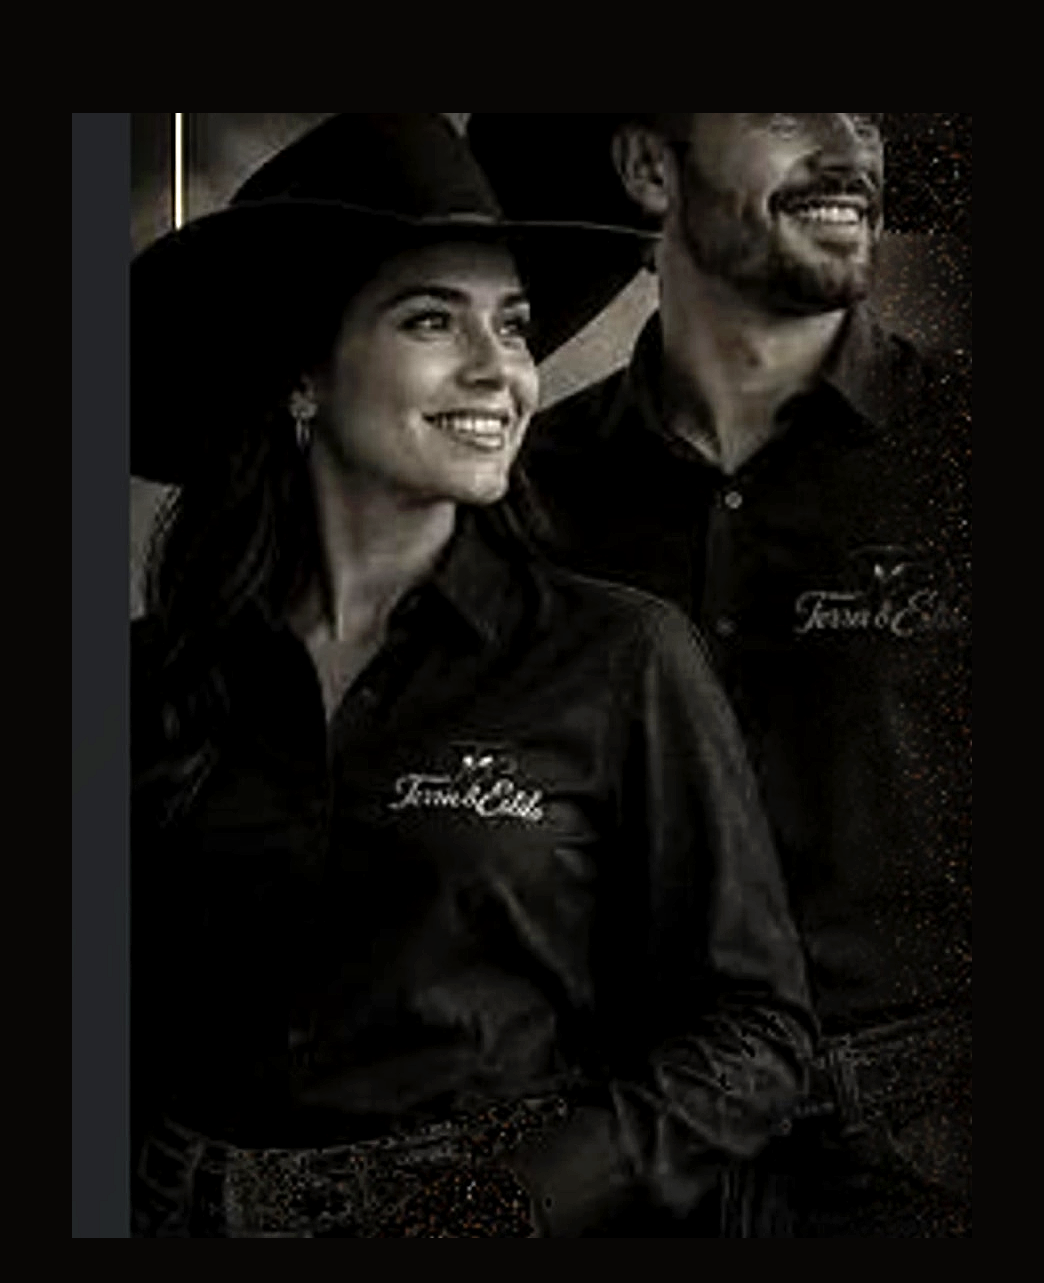
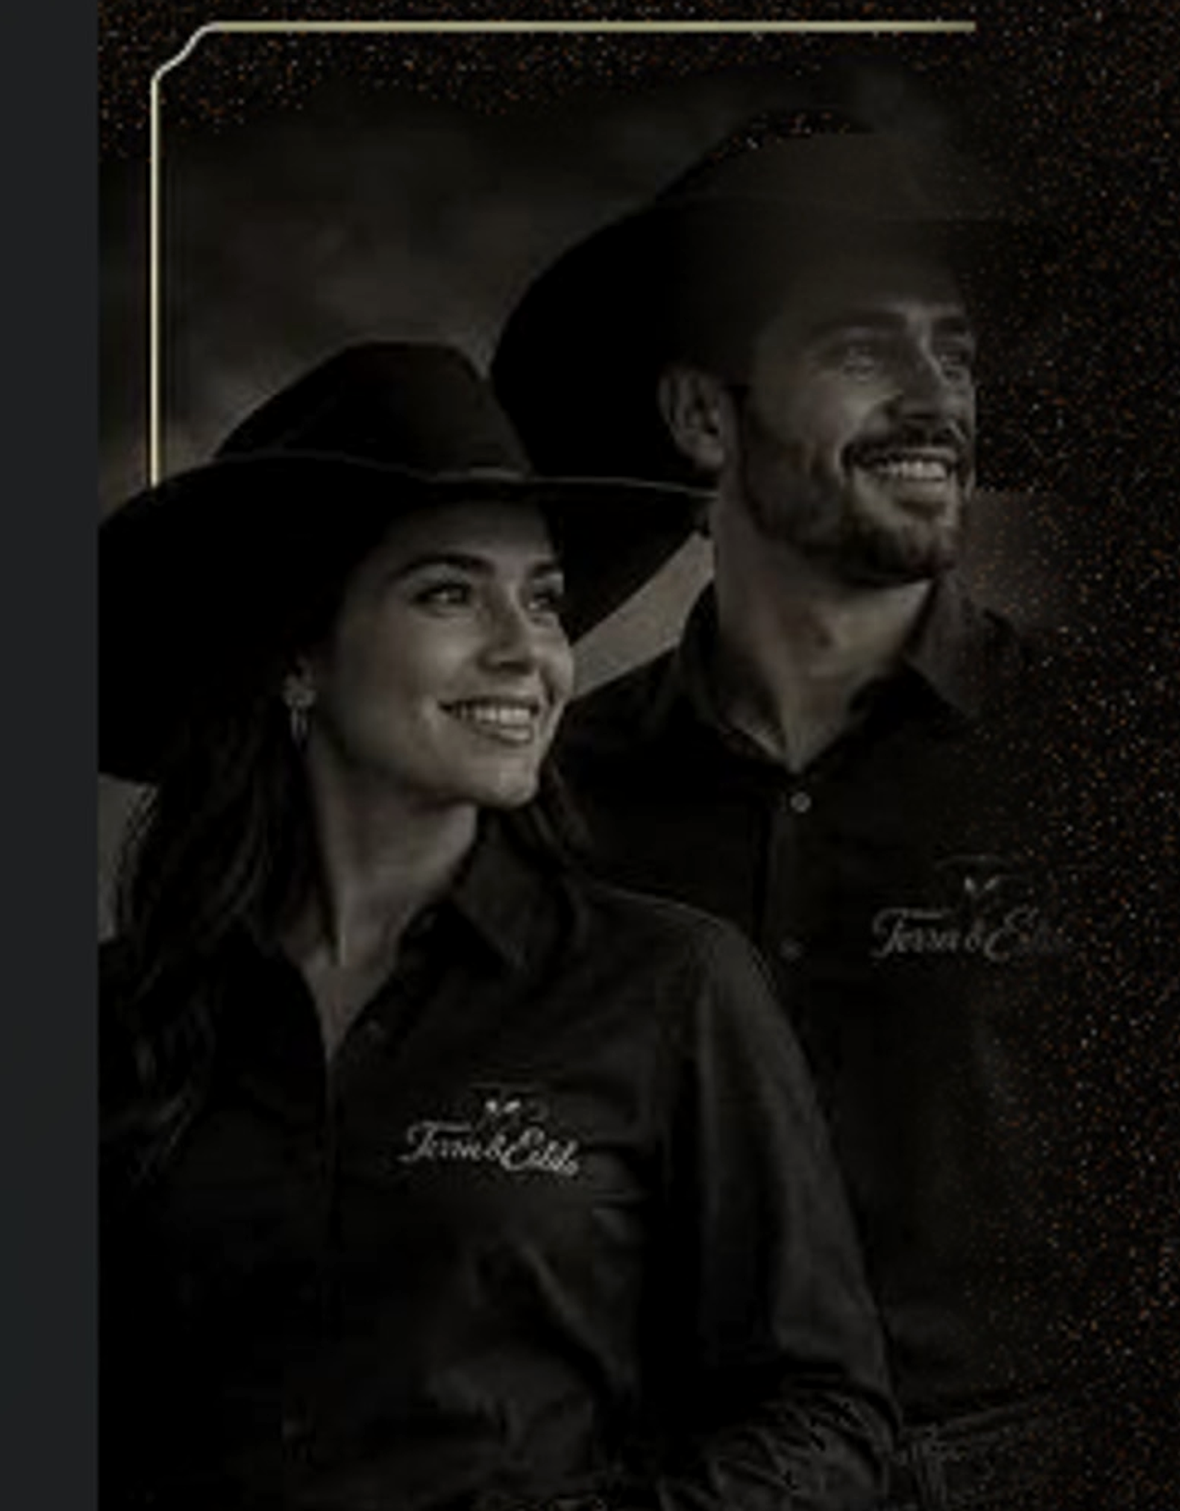
Ajuste

diff --git a/src/home.css b/src/home.css
@@ -1118,7 +1118,7 @@
 }
 
 .hero-section {
-  --hero-logo-size: clamp(220px, 17vw, 300px);
+  --hero-logo-size: clamp(200px, 15vw, 270px);
   --hero-band-h: clamp(88px, 10vw, 120px);
   position: relative;
   width: 100%;
@@ -1134,9 +1134,9 @@
   background: linear-gradient(
     90deg,
     #0A0A0A 0%,
-    #111111 48%,
-    #1a1612 54%,
-    #EDE6D8 58%,
+    #111111 52%,
+    #1a1612 58%,
+    #EDE6D8 62%,
     #F5F1E8 100%
   );
 }
@@ -1161,7 +1161,7 @@
     radial-gradient(1.2px 1.2px at 40% 30%, rgba(230, 201, 138, 0.18), transparent);
   background-size: 100% 100%;
   animation: hero-dust 18s ease-in-out infinite alternate;
-  mask-image: linear-gradient(90deg, #000 0%, #000 52%, transparent 64%);
+  mask-image: linear-gradient(90deg, #000 0%, #000 56%, transparent 68%);
 }
 
 @keyframes hero-dust {
@@ -1177,9 +1177,10 @@
   align-items: stretch;
   width: 100%;
   max-width: none;
-  min-height: min(760px, calc(100vh - var(--sticky-offset) - var(--hero-band-h)));
+  height: min(820px, calc(100vh - var(--sticky-offset) - var(--hero-band-h)));
+  min-height: 620px;
   margin: 0;
-  padding: 20px clamp(16px, 2.5vw, 40px) 28px 0;
+  padding: 16px clamp(16px, 2.5vw, 40px) 20px 0;
   gap: 0;
 }
 
@@ -1191,9 +1192,10 @@
   justify-content: center;
   min-width: 0;
   min-height: 0;
+  height: 100%;
   margin: 0;
-  padding: 8px 18px 8px 4px;
-  overflow: visible;
+  padding: 8px 48px 8px 8px;
+  overflow: hidden;
 }
 
 .hero-models {
@@ -1206,17 +1208,17 @@
   min-height: 0;
   margin: 0;
   padding: 0;
-  overflow: visible;
+  overflow: hidden;
 }
 
 .hero-models__img {
   position: relative;
   z-index: 1;
   display: block;
-  width: 90%;
-  height: auto;
-  max-width: min(100%, 720px);
-  max-height: min(92%, calc(100vh - var(--sticky-offset) - var(--hero-band-h) - 56px));
+  width: auto;
+  height: 100%;
+  max-width: 100%;
+  max-height: 100%;
   margin: 0 auto;
   padding: 0;
   border: none;
@@ -1224,8 +1226,8 @@
   background: none;
   box-shadow: none;
   object-fit: contain;
-  object-position: center 32%;
-  filter: brightness(1.08) contrast(1.04);
+  object-position: center 12%;
+  filter: brightness(1.1) contrast(1.05);
   -webkit-mask-image: none;
   mask-image: none;
   animation: hero-fade-in 0.7s ease both;
@@ -1237,8 +1239,8 @@
   display: flex;
   align-items: center;
   justify-content: center;
-  width: clamp(188px, 16vw, 280px);
-  margin: 0 -10px;
+  width: clamp(176px, 15vw, 260px);
+  margin: 0 -4px;
   padding: 0;
   pointer-events: none;
   align-self: center;
@@ -1601,18 +1603,18 @@
 
 @media (max-width: 1366px) {
   .hero-layout {
-    min-height: 680px;
+    height: min(720px, calc(100vh - var(--sticky-offset) - var(--hero-band-h)));
+    min-height: 580px;
     grid-template-columns: minmax(0, 1.22fr) auto minmax(0, 0.95fr);
-    padding: 18px clamp(12px, 2vw, 28px) 24px 0;
+    padding: 14px clamp(12px, 2vw, 28px) 16px 0;
   }
 
   .hero-models__img {
-    width: 88%;
-    height: auto;
-    max-height: min(90%, 640px);
-    margin: 0 auto;
+    width: auto;
+    height: 100%;
+    max-width: 100%;
     object-fit: contain;
-    object-position: center 30%;
+    object-position: center 10%;
   }
 }
 
@@ -1657,6 +1659,7 @@
     flex-direction: column;
     align-items: center;
     max-width: 720px;
+    height: auto;
     min-height: 0;
     margin: 0 auto;
     padding: 28px 18px 20px;
@@ -1685,12 +1688,12 @@
   }
 
   .hero-models__img {
-    width: min(92%, 560px);
+    width: min(96%, 620px);
     height: auto;
     max-height: min(58vh, 600px);
     margin: 0 auto;
     object-fit: contain;
-    object-position: center 28%;
+    object-position: center 18%;
     -webkit-mask-image: none;
     mask-image: none;
   }
@@ -1883,6 +1886,7 @@
   display: grid;
   grid-template-columns: minmax(0, 58%) minmax(0, 42%);
   min-height: 640px;
+  max-height: none;
   overflow: hidden;
   border: 1px solid rgba(201, 155, 50, 0.72);
   border-radius: 22px;
@@ -1898,21 +1902,23 @@
   align-items: center;
   justify-content: center;
   min-height: 640px;
-  padding: 28px 36px 120px 24px;
+  max-height: 760px;
+  height: 100%;
+  padding: 28px 120px 120px 24px;
   overflow: hidden;
   background: #0f0d0b;
 }
 
 .featured-collection__media-img {
   display: block;
-  width: 92%;
-  height: auto;
-  max-width: 680px;
-  max-height: min(560px, calc(100% - 24px));
-  margin: 0 auto;
+  width: 100%;
+  height: 100%;
+  max-width: 100%;
+  max-height: 100%;
+  margin: 0;
   object-fit: contain;
-  object-position: center 30%;
-  filter: brightness(1.08) contrast(1.04) saturate(0.95);
+  object-position: 44% 12%;
+  filter: brightness(1.1) contrast(1.05) saturate(0.95);
 }
 
 .featured-collection__media::after {
@@ -1921,19 +1927,19 @@
   inset: 0;
   background: linear-gradient(
     90deg,
-    transparent 72%,
-    rgba(11, 10, 9, 0.08) 88%,
-    rgba(246, 240, 229, 0.28) 100%
+    transparent 78%,
+    rgba(11, 10, 9, 0.06) 90%,
+    rgba(246, 240, 229, 0.22) 100%
   );
   pointer-events: none;
 }
 
 .featured-collection__logo {
   position: absolute;
-  left: 54%;
-  top: 46%;
+  left: 59%;
+  top: 44%;
   z-index: 4;
-  width: clamp(220px, 20vw, 320px);
+  width: clamp(190px, 17vw, 280px);
   aspect-ratio: 1;
   transform: translate(-50%, -50%);
   pointer-events: none;
@@ -2193,10 +2199,11 @@
   }
 
   .featured-collection__media-img {
-    width: min(94%, 520px);
+    width: 100%;
+    height: 100%;
     max-height: 360px;
     object-fit: contain;
-    object-position: center 26%;
+    object-position: center 24%;
   }
 
   .featured-collection__media::after {

diff --git a/src/preview.css b/src/preview.css
@@ -19,7 +19,8 @@
   grid-template-columns: minmax(0, 1.28fr) auto minmax(0, 0.92fr);
   align-items: stretch;
   max-width: none;
-  min-height: min(760px, calc(100vh - var(--sticky-offset) - 110px));
+  height: min(820px, calc(100vh - var(--sticky-offset) - 110px));
+  min-height: 620px;
   margin: 0;
   padding-left: 0;
 }
@@ -28,25 +29,28 @@
   display: flex;
   align-items: center;
   justify-content: center;
-  min-height: 560px;
-  overflow: visible;
-  padding: 8px 18px 8px 4px;
+  min-height: 0;
+  height: 100%;
+  overflow: hidden;
+  padding: 8px 48px 8px 8px;
 }
 
 .desktop-preview .hero-models {
   justify-content: center;
   align-items: center;
-  overflow: visible;
+  height: 100%;
+  min-height: 0;
+  overflow: hidden;
 }
 
 .desktop-preview .hero-models__img {
-  width: 90%;
-  height: auto;
-  max-width: min(100%, 720px);
-  max-height: min(92%, 640px);
+  width: auto;
+  height: 100%;
+  max-width: 100%;
+  max-height: 100%;
   margin: 0 auto;
   object-fit: contain;
-  object-position: center 32%;
+  object-position: center 12%;
   -webkit-mask-image: none;
   mask-image: none;
 }
@@ -442,11 +446,11 @@
 }
 
 .mobile-preview .hero-models__img {
-  width: min(92%, 560px);
+  width: min(96%, 620px);
   height: auto;
   max-height: min(58vh, 600px);
   object-fit: contain;
-  object-position: center 28%;
+  object-position: center 26%;
   filter: brightness(1.08) contrast(1.04);
   -webkit-mask-image: none;
   mask-image: none;
@@ -851,11 +855,11 @@
 }
 
 .mobile-preview .hero-models__img {
-  width: min(92%, 560px);
+  width: min(96%, 620px);
   height: auto;
   max-height: min(58vh, 600px);
   object-fit: contain;
-  object-position: center 28%;
+  object-position: center 26%;
   -webkit-mask-image: none;
   mask-image: none;
 }
@@ -955,15 +959,16 @@
 }
 
 .mobile-preview .featured-collection__media {
-  min-height: 300px;
+  min-height: 320px;
   padding: 16px 12px 56px;
 }
 
 .mobile-preview .featured-collection__media-img {
-  width: min(94%, 480px);
-  max-height: 280px;
+  width: 100%;
+  height: 100%;
+  max-height: 300px;
   object-fit: contain;
-  object-position: center 26%;
+  object-position: center 24%;
 }
 
 .mobile-preview .featured-collection__logo {

diff --git a/src/components/home/HeroSection.jsx b/src/components/home/HeroSection.jsx
@@ -3,7 +3,7 @@ import { assetUrl } from '../../utils/assetUrl'
 import HeroButtons from './HeroButtons'
 import DecorativeBottomBand from './DecorativeBottomBand'
 
-const HERO_ASSET_V = '20260730g'
+const HERO_ASSET_V = '20260730k'
 const HERO_IMAGE_SRC = `/images/hero/couple-hero.png?v=${HERO_ASSET_V}`
 
 function HeroSection() {
@@ -20,8 +20,8 @@ function HeroSection() {
               src={assetUrl(HERO_IMAGE_SRC)}
               alt=""
               className="hero-models__img"
-              width={1148}
-              height={1371}
+              width={1324}
+              height={1575}
               decoding="sync"
               fetchPriority="high"
             />

diff --git a/src/data/homeData.js b/src/data/homeData.js
@@ -7,7 +7,7 @@ export const BRAND_HERO_BOARD_SRC = BRAND_LOGO_CIRCULAR_SRC
 export const BRAND_LOGO_WIDTH = 1024
 export const BRAND_LOGO_HEIGHT = 1024
 export const BRAND_MARBLE_SRC = assetUrl('/images/brand/marble-texture.svg')
-export const COUPLE_HERO_SRC = assetUrl('/images/hero/couple-hero.png?v=20260730g')
+export const COUPLE_HERO_SRC = assetUrl('/images/hero/couple-hero.png?v=20260730k')
 
 export const topBarMessages = [
   {

diff --git a/src/components/home/FeaturedCollection.jsx b/src/components/home/FeaturedCollection.jsx
@@ -34,8 +34,8 @@ function FeaturedCollection() {
             src={image}
             alt={imageAlt}
             className="featured-collection__media-img"
-            width={1148}
-            height={1371}
+            width={1324}
+            height={1575}
             loading="lazy"
             decoding="async"
           />
